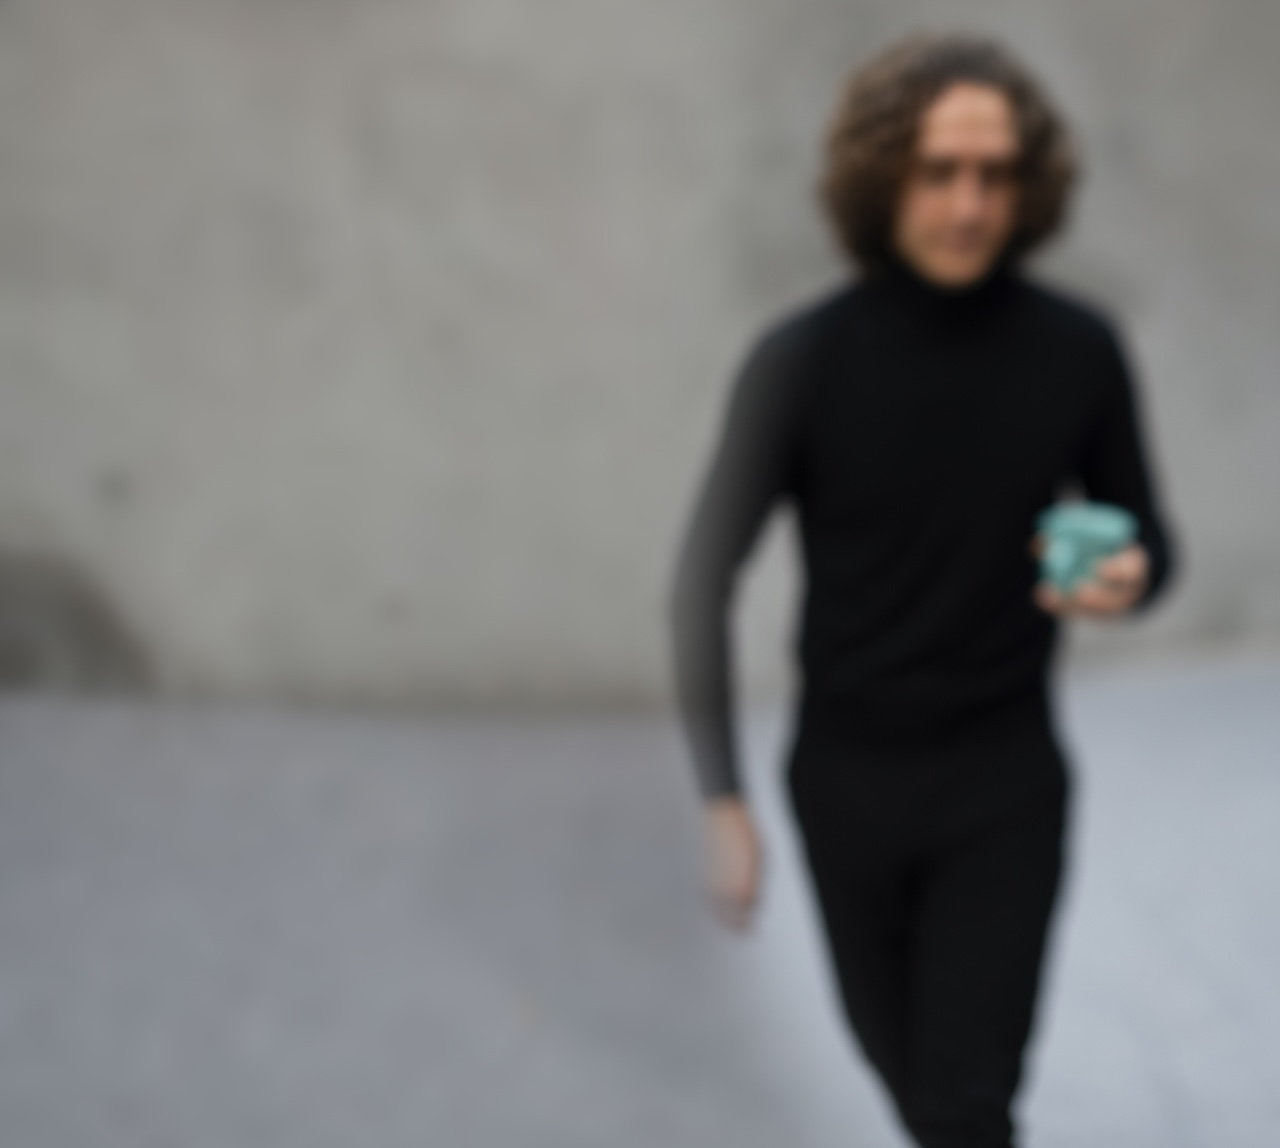
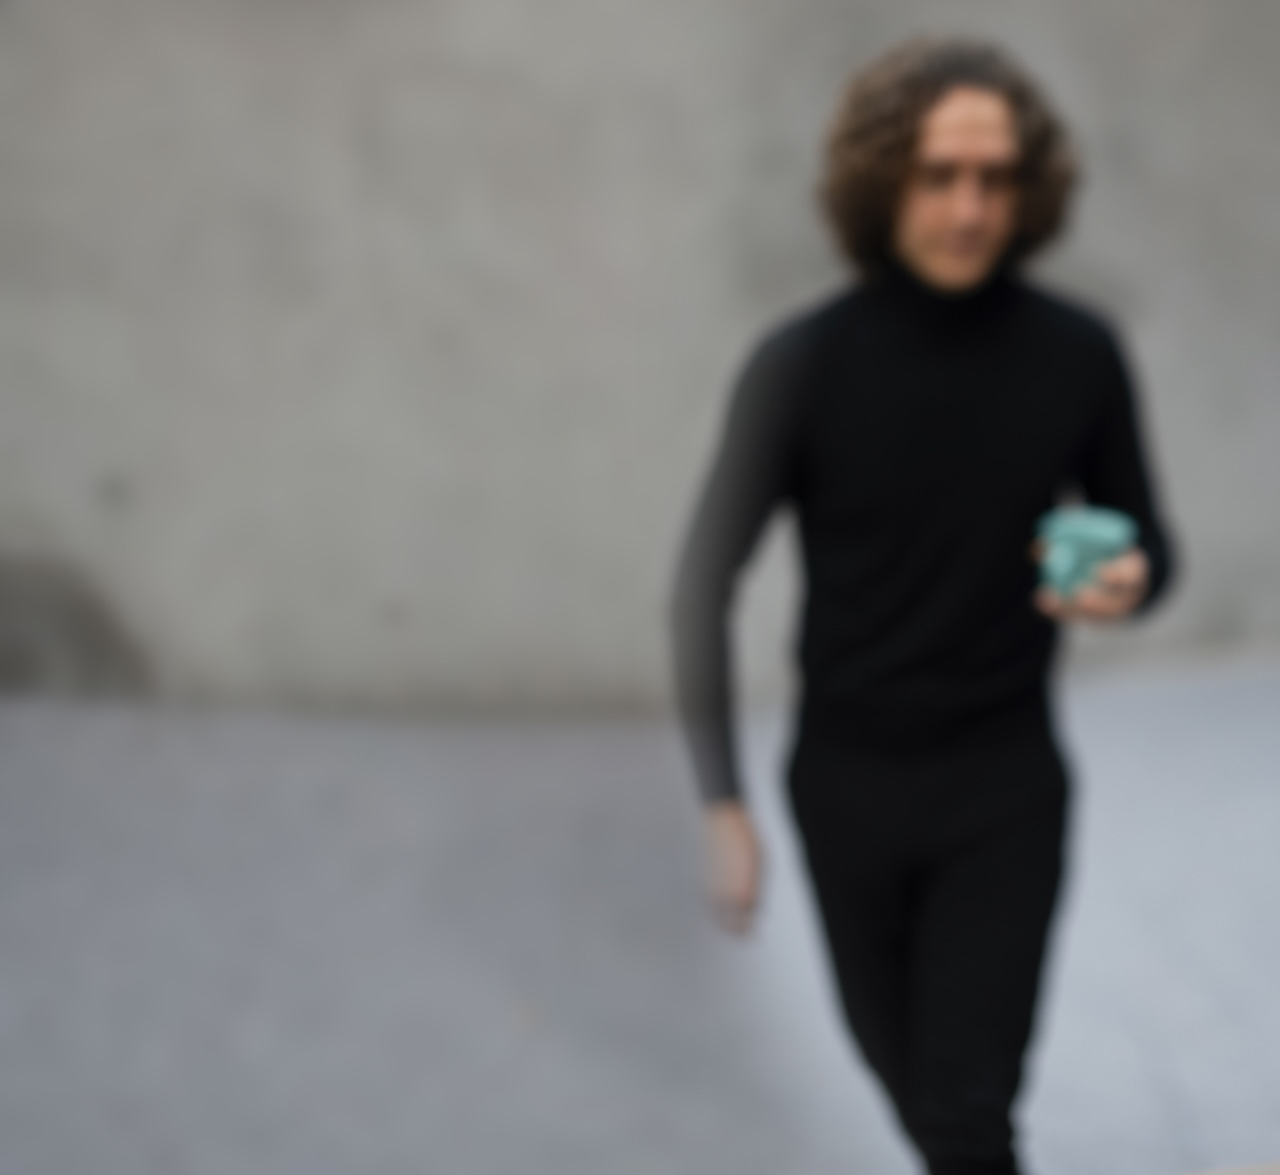
feat: bg images

diff --git a/src/app/(admin)/layout.tsx b/src/app/(admin)/layout.tsx
@@ -10,14 +10,16 @@ export default async function AdminLayout({
     <div className="min-h-dvh flex flex-col gap-8 bg-fixed relative">
       <div className="fixed top-0 left-0 w-full h-full">
         <Image
-          priority={true}
+          priority
           src={bgBackoffice}
-          layout="fill"
+          fill
+          quality={100}
           objectFit="cover"
           objectPosition="top"
           alt="background image"
           placeholder="blur"
           blurDataURL={bgBackoffice.blurDataURL}
+          className="w-full h-full"
         />
       </div>
       <div className="z-10">{children}</div>

diff --git a/src/components/layout/layout.tsx b/src/components/layout/layout.tsx
@@ -16,9 +16,10 @@ export const Layout = {
       {!!backgroundImg && (
         <div className="fixed top-0 left-0 w-full h-full">
           <Image
-            priority={true}
+            priority
             src={backgroundImg}
-            layout="fill"
+            fill
+            quality={100}
             objectFit="cover"
             objectPosition={backgroundPosition}
             alt="background image"

diff --git a/src/app/(client)/projects/layout.tsx b/src/app/(client)/projects/layout.tsx
@@ -1,5 +1,4 @@
-import bgProjects from "@/assets/images/backgrounds/bg-projects.webp";
-// import bgProjects from "@/assets/images/backgrounds/bg-projects.jpg";
+import bgProjects from "@/assets/images/backgrounds/bg-projects.jpg";
 import { Layout } from "@/components/layout";
 import type { Metadata } from "next/types";
 

diff --git a/src/app/not-found.tsx b/src/app/not-found.tsx
@@ -1,4 +1,4 @@
-import bgImage from "@/assets/images/backgrounds/bg-contact.webp";
+import bgImage from "@/assets/images/backgrounds/bg-contact.jpg";
 import { Layout } from "@/components/layout";
 import { Typography } from "@/components/typography";
 import { Button } from "@/components/ui/button";

diff --git a/src/app/samples/layout.tsx b/src/app/samples/layout.tsx
@@ -1,4 +1,4 @@
-import bgBackoffice from "@/assets/images/backgrounds/bg-backoffice.webp";
+import bgBackoffice from "@/assets/images/backgrounds/bg-backoffice.jpg";
 import { Layout } from "@/components/layout";
 import "@/styles/globals.scss";
 import type { Metadata } from "next/types";

diff --git a/src/app/(client)/concerts/layout.tsx b/src/app/(client)/concerts/layout.tsx
@@ -1,4 +1,4 @@
-import bgConcerts from "@/assets/images/backgrounds/bg-concerts.webp";
+import bgConcerts from "@/assets/images/backgrounds/bg-concerts.jpg";
 import { Layout } from "@/components/layout";
 import type { Metadata } from "next/types";
 

diff --git a/src/app/(client)/contact/layout.tsx b/src/app/(client)/contact/layout.tsx
@@ -1,4 +1,4 @@
-import bgContact from "@/assets/images/backgrounds/bg-contact.webp";
+import bgContact from "@/assets/images/backgrounds/bg-contact.jpg";
 import { Layout } from "@/components/layout";
 import type { Metadata } from "next/types";
 

diff --git a/src/app/(client)/gallery/layout.tsx b/src/app/(client)/gallery/layout.tsx
@@ -1,4 +1,4 @@
-import bgGallery from "@/assets/images/backgrounds/bg-gallery.webp";
+import bgGallery from "@/assets/images/backgrounds/bg-gallery.jpg";
 import { Layout } from "@/components/layout";
 import type { Metadata } from "next/types";
 

diff --git a/src/app/(client)/about/layout.tsx b/src/app/(client)/about/layout.tsx
@@ -1,4 +1,4 @@
-import bgAbout from "@/assets/images/backgrounds/bg-about.webp";
+import bgAbout from "@/assets/images/backgrounds/bg-about.jpg";
 import { Layout } from "@/components/layout";
 import type { Metadata } from "next";
 

diff --git a/src/app/(client)/(home)/layout.tsx b/src/app/(client)/(home)/layout.tsx
@@ -1,4 +1,4 @@
-import bgHome from "@/assets/images/backgrounds/bg-home.webp";
+import bgHome from "@/assets/images/backgrounds/bg-home.jpg";
 import { Layout } from "@/components/layout";
 
 export default function HomeLayout({
